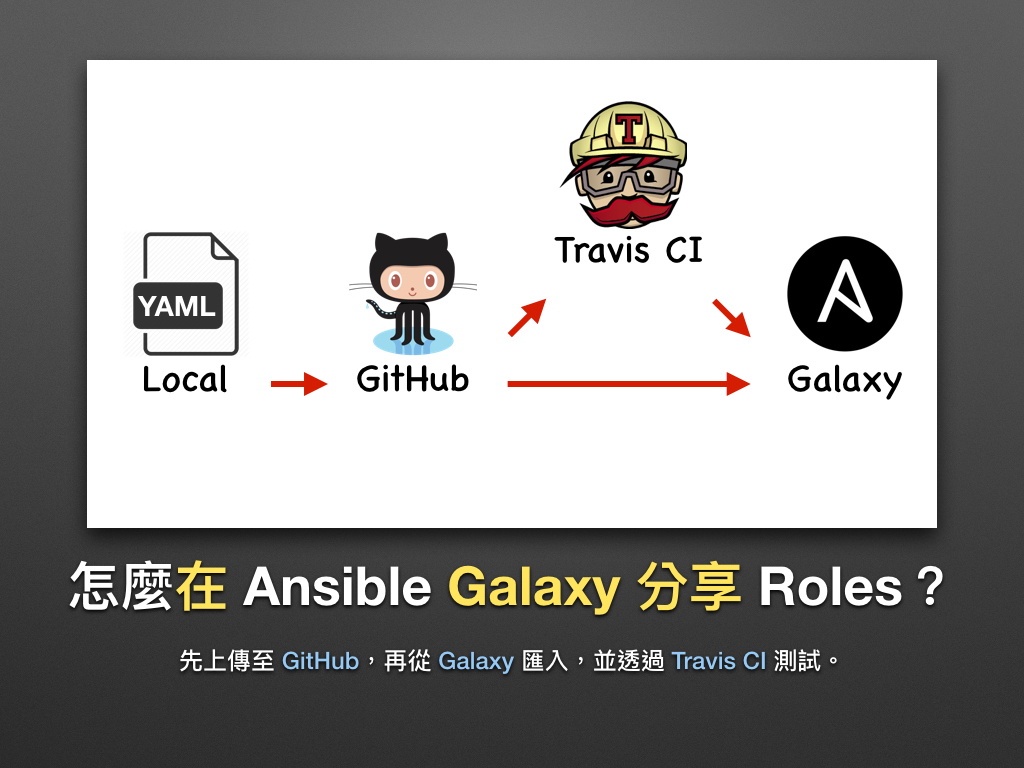
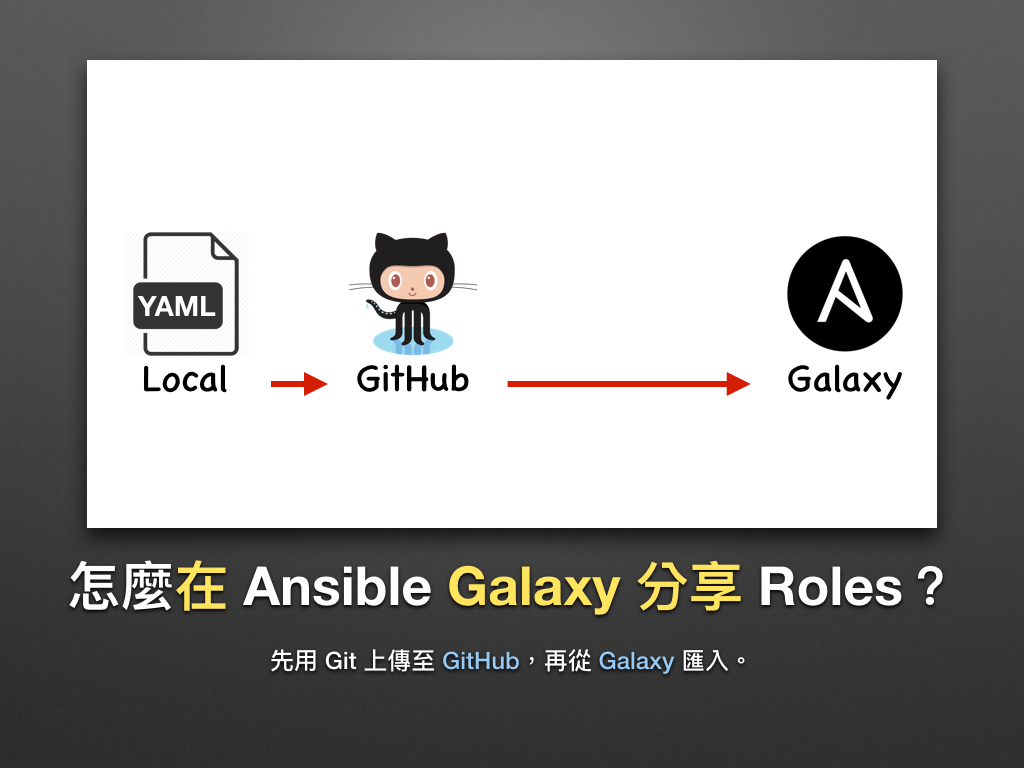
day27 release !
拔掉 Travis CI 的部份，留到 day28 再寫了。

diff --git a/26.how_to_share_roles_on_galaxy-2.md b/26.how_to_share_roles_on_galaxy-2.md
@@ -6,12 +6,6 @@
 
 ![automate_with_ansible_practice-29.jpg](imgs/automate_with_ansible_practice-29.jpg)
 
-流程如下：
-
-1. 藉由 **Git** 從本地 (Local) 把 Roles **上傳至 GitHub**。
-2. **於 Galaxy 匯入 (import)** GitHub 上的 Roles。
-3. 藉由 **Travis CI 整合** GitHub 進行 Roles 的**自動化測試**，最後發送通知結果給 Galaxy。
-
 [ansible_galaxy]: https://galaxy.ansible.com/
 
 
@@ -20,15 +14,17 @@
 先前在「[21. 怎麼使用 Roles？](21.how-to-use-the-roles.md)」一章曾提過，Galaxy 裡的 Roles 其實是存在 GitHub 上的。
 
 1. 在 GitHub 建立一個 Repository (儲存庫) [^1]，官方建議使用 `ansible-role-acme` 的格式進行命名。
-2. 把寫好的 Roles 加入 Git 版本控制系統的追蹤系統裡。
+1. 把寫好的 Roles 加入 Git 版本控制裡。
 
   ```
   $ git commit -a
   $ git push
   ```
 
-3. 若對 Git 和 GitHub 不熟，可參考凍仁先前寫的 [Git and Github basic with SourceTree][git_and_github_basic_with_sourcetree] 簡報。
+1. 藉由 **[Git][git_official]** 從本地 (Local) 把 Roles **上傳至 GitHub**。
+1. 若對 Git 和 GitHub 不熟，可參考凍仁先前寫的 [Git and Github basic with SourceTree][git_and_github_basic_with_sourcetree] 簡報。
 
+[git_official]: https://git-scm.com/
 [git_and_github_basic_with_sourcetree]: https://speakerdeck.com/chusiang/git-and-github-basic-with-sourcetree
 
 
@@ -53,23 +49,18 @@
   ![2016-12-26-galaxy-import-roles-6.png](imgs/2016-12-26-galaxy-import-roles-6.png)
   > 我們可藉由此頁面來檢查 Meta Data (`meta/main.yml`) 的設定是否有誤。
 
-<!--
-### 怎麼藉由 Travis CI 自動化測試 Roles？
+1. 若想自訂 Role name，可透過 **Role Settings** 進行更改。
+  ![2016-12-26-galaxy-import-roles-7.png](imgs/2016-12-26-galaxy-import-roles-7.png)
 
-為什麼要串 CI？有什麼好處？
-
-https://github.com/settings/tokens
--->
+以上，現在我們可以在 https://galaxy.ansible.com/chusiang/testlink/ 看到剛匯入的 Role，其中 `chusiang` 為 username，`testlink` 為 role name，而完整名稱則是 `chusiang.testlink`。
 
 
 ### 後語
 
-寫完複雜 Playbooks，我們只需費點工夫打包成 Roles，然後就可以在 Galaxy 上與全世界分享了！
-
+寫完複雜 Playbooks，我們只需再費點工夫就可以在 Galaxy 上與全世界分享了！
 
 
 [^1]: 若不會在 GitHub 上建立 Repository，可參考 [Create A Repo | GitHub][create_a_repo] 一文。
 
 [create_a_repo]: https://help.github.com/articles/create-a-repo/。
-
 
